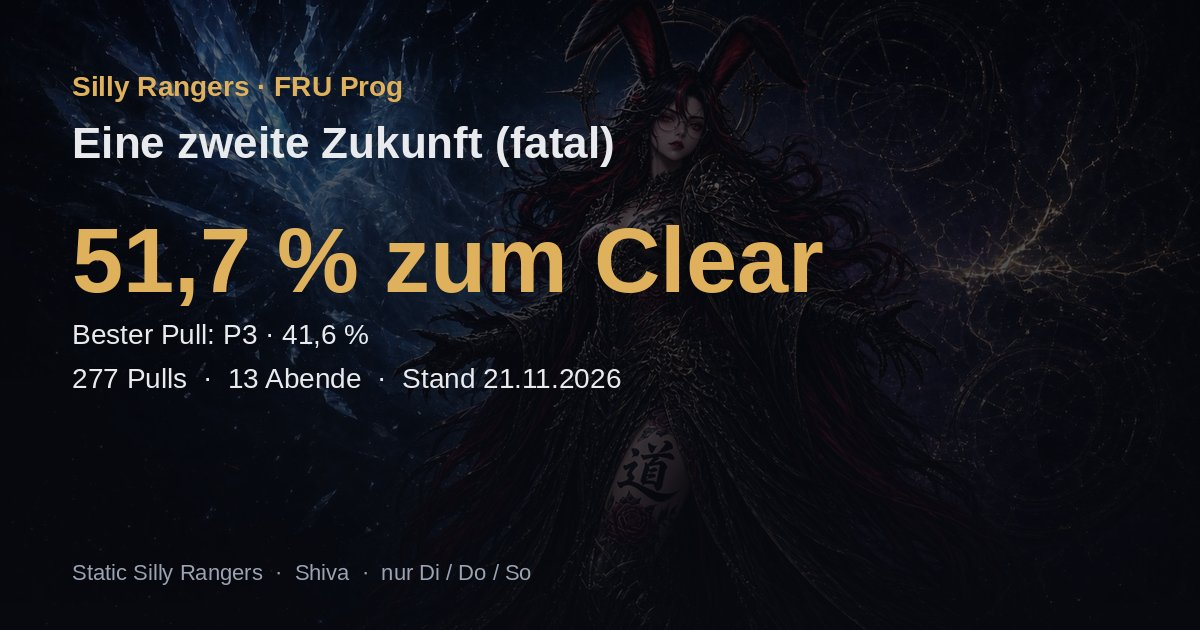
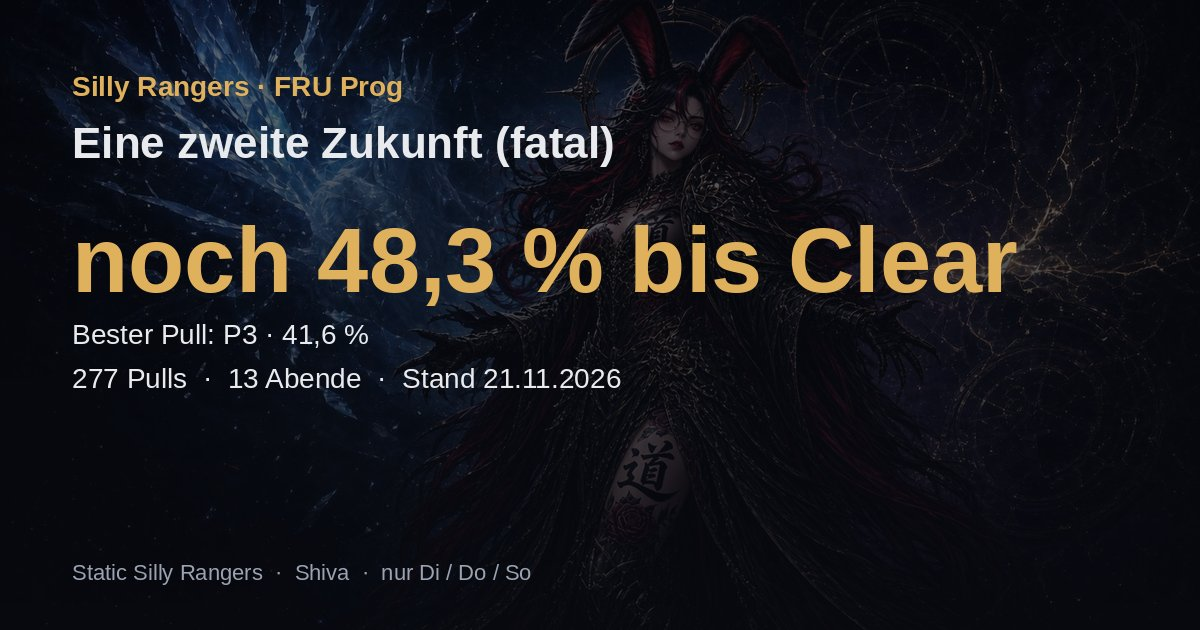
FRU-Seite Stand 21.11.2026 (Daten bis 19.11.2026, 277 Pulls, 13 Abende)

Changed region(s): [[0.0617, 0.3317, 0.8633, 0.4825]]

diff --git a/index.html b/index.html
@@ -3,7 +3,7 @@
 <head>
 <meta charset="utf-8">
 <meta name="viewport" content="width=device-width, initial-scale=1">
-<meta name="description" content="Bester Pull: 51,7 % zum Clear · 277 Pulls · 13 Abende">
+<meta name="description" content="Bester Pull: noch 48,3 % bis zum Clear · 277 Pulls · 13 Abende">
 <meta name="robots" content="index,follow">
 <title>Silly Rangers · FRU Prog</title>
 <link rel="canonical" href="https://kamishifuji.github.io/fru/">
@@ -13,16 +13,16 @@
 <meta property="og:type" content="website">
 <meta property="og:site_name" content="Silly Rangers">
 <meta property="og:title" content="Silly Rangers · FRU Prog">
-<meta property="og:description" content="Bester Pull: 51,7 % zum Clear · 277 Pulls · 13 Abende">
+<meta property="og:description" content="Bester Pull: noch 48,3 % bis zum Clear · 277 Pulls · 13 Abende">
 <meta property="og:url" content="https://kamishifuji.github.io/fru/">
 <meta property="og:image" content="https://kamishifuji.github.io/fru/assets/og.jpg">
 <meta property="og:image:width" content="1200">
 <meta property="og:image:height" content="630">
 <meta name="twitter:card" content="summary_large_image">
 <meta name="twitter:title" content="Silly Rangers · FRU Prog">
-<meta name="twitter:description" content="Bester Pull: 51,7 % zum Clear · 277 Pulls · 13 Abende">
+<meta name="twitter:description" content="Bester Pull: noch 48,3 % bis zum Clear · 277 Pulls · 13 Abende">
 <meta name="twitter:image" content="https://kamishifuji.github.io/fru/assets/og.jpg">
-<link rel="stylesheet" href="css/style.css?v=1ac3eb5cfa">
+<link rel="stylesheet" href="css/style.css?v=104f25d85b">
 </head>
 <body class="home">
 <a class="skip" href="#main">Zum Inhalt</a>
@@ -75,11 +75,11 @@
   <p class="note">Erster P2 nach 26 Pulls (04.10, Pull 8, 3:36, Boss 80,5 %). Erster P3 nach 162 Pulls (29.10, Pull 20, 8:04, Boss 84,1 %). Boss-HP ist der verbleibende Lebenspunkte-Anteil des Bosses der erreichten Phase beim Wipe (niedriger = weiter). Hinweis zur Uhrzeit: 25.10 (früh) Start 19:06 (früher als 20:00). Der 25.10. bleibt ein Static-Sonntag und ist zu einem Abend zusammengefasst.</p>
   <div class="actions"><a class='btn' href='pdf/FRU_Prog_Analyse.pdf'>Gesamt-PDF herunterladen</a></div>
 
-<div class='clear-head' id='clear-best'><div class='k'>Bester Pull bisher</div><div class='num'>51,7&nbsp;% zum Clear</div><div class='sub'>P3 · 41,6 % · 15.11.2026 · Pull 10 · 9:28</div><div class='clear-track' aria-hidden='true'><span class='fill' style='width:51.7%'></span><span class='tick' style='left:20%'></span><span class='tick' style='left:40%'></span><span class='tick' style='left:60%'></span><span class='tick' style='left:80%'></span></div><div class='clear-ticks'><span>0 · P1</span><span>P2</span><span>P3</span><span>P4</span><span>P5</span><span>Clear</span></div></div>
+<div class='clear-head' id='clear-best'><div class='k'>Bester Pull bisher</div><div class='num'>noch 48,3&nbsp;% bis zum Clear</div><div class='sub'>P3 · 41,6 % · 15.11.2026 · Pull 10 · 9:28</div><div class='clear-track' aria-hidden='true'><span class='fill fill-rest' style='width:48.3%;background-size:207.0% 100%'></span><span class='tick' style='left:20%'></span><span class='tick' style='left:40%'></span><span class='tick' style='left:60%'></span><span class='tick' style='left:80%'></span></div><div class='clear-ticks'><span>0 · Clear</span><span>P5</span><span>P4</span><span>P3</span><span>P2</span><span>100 · Start</span></div></div>
 
-  <h2 id="fortschritt">Fortschritt bis zum Clear (0–100 %)</h2>
-  <div class="card"><div class="chart-box"><canvas id="chartClear" aria-label="Fortschritt bis zum Clear über die Abende"></canvas></div>
-    <p class="fine">Pro Abend der beste Pull, umgerechnet auf den Weg zum Clear. Das ist ein <strong>vereinfachtes Modell</strong>: Jede der fünf Phasen zählt gleich 20&nbsp;%, unabhängig vom echten Zeitanteil im Fight. Rechnung: (Phase − 1) × 20&nbsp;% + (100 − Boss-HP&nbsp;%) / 100 × 20&nbsp;%. Beispiel: P3 bei 41&nbsp;% Boss-HP = 40 + 11,8 = 51,8&nbsp;%. 100&nbsp;% wäre ein Clear. Die waagerechten Linien markieren den Start von P2 / P3 / P4 / P5 (20 / 40 / 60 / 80&nbsp;%) und den Clear (100&nbsp;%).</p>
+  <h2 id="fortschritt">Weg bis zum Clear (100 % = Start, 0 % = Clear)</h2>
+  <div class="card"><div class="chart-box"><canvas id="chartClear" aria-label="Weg bis zum Clear über die Abende"></canvas></div>
+    <p class="fine">Pro Abend der beste Pull, umgerechnet auf den Rest bis zum Clear – wie eine HP-Leiste über den ganzen Fight: 100&nbsp;% ist der Start von FRU, 0&nbsp;% der Clear, je tiefer die Linie, desto weiter seid ihr. Das ist ein <strong>vereinfachtes Modell</strong>: Jede der fünf Phasen zählt gleich 20&nbsp;%, unabhängig vom echten Zeitanteil im Fight. Rechnung: Rest = 100 − [(Phase − 1) × 20&nbsp;% + (100 − Boss-HP&nbsp;%) / 100 × 20&nbsp;%]. Beispiel bester Pull: P3 bei 41,6&nbsp;% Boss-HP = 100 − (40 + 11,7) = 48,3&nbsp;% Rest. Die waagerechten Linien markieren den Start von P2 / P3 / P4 / P5 (80 / 60 / 40 / 20&nbsp;%) und den Clear (0&nbsp;%).</p>
   </div>
 
   <h2 id="anteil">Fortschritt über die Abende</h2>
@@ -117,7 +117,7 @@
     <p>Seit dem 20.11.2026 gleicht die Seite die Daten mit der FFLogs-API ab: volle Report-Links, Boss-HP mit Nachkommastelle, Spielerliste pro Pull und Positionsdaten für die <a href='fehler.html'>Fehler-Analyse</a>. Neue Reports kommen automatisch über die API dazu. 3 Pulls hatten in den ausgelesenen Daten keine Todesliste (03.11 Pull 13, 05.11 Pull 1, 05.11 Pull 12). Die API bestätigt: dort ist niemand gestorben, die Pulls endeten in der Zwischenphase ohne Massentod. Boss-HP korrigiert bzw. ergänzt: 15.11 Pull 3: 22 → 21.02 %, 19.11 Pull 2: ? → 100 %. Für 05.11 verlinkt die Seite das Log eines anderen Mitglieds derselben Session (gleiche Pulls und Dauern).</p>
     <p>Die Wipe-Kaskade ist die letzte Todeskette mit mindestens drei Toden (Abstand ≤ 6 s), aus der danach niemand noch einmal stirbt. Alles in und nach dieser Kette zählt als Wipe, nicht als Einzeltod. Tode mehr als 3 s vor dem ersten Massentod-Moment (≥ 2 Tode innerhalb 1 s) bleiben Einzeltode.</p>
     <p>Boss-HP kommt aus FFLogs und ist der verbleibende Anteil in der erreichten Phase, seit dem API-Abgleich mit Nachkommastelle. Es wird nichts ergänzt oder geschätzt.</p>
-    <p>Der Balken „Fortschritt bis zum Clear“ ist ein vereinfachtes Modell, keine echte Zeitmessung: Jede der fünf Phasen zählt gleich 20&nbsp;%. Formel: (Phase − 1) × 20&nbsp;% + (100 − Boss-HP) / 100 × 20&nbsp;%. 100&nbsp;% wäre ein Clear.</p>
+    <p>Der Balken „Weg bis zum Clear“ ist ein vereinfachtes Modell, keine echte Zeitmessung: Jede der fünf Phasen zählt gleich 20&nbsp;%. Formel: Rest = 100 − [(Phase − 1) × 20&nbsp;% + (100 − Boss-HP) / 100 × 20&nbsp;%]. 100&nbsp;% ist der Start von FRU, 0&nbsp;% wäre ein Clear.</p>
   </details>
 
 
@@ -165,8 +165,8 @@
   <div class="wrap legal">Inoffizielle Fan-Seite – FINAL FANTASY XIV © SQUARE ENIX</div>
 </footer>
 
-<script type="application/json" id="chart-data">{"labels": ["01.10", "04.10", "15.10", "18.10", "25.10", "29.10", "03.11", "05.11", "08.11", "12.11", "15.11", "17.11", "19.11"], "p2": [0.0, 14.7, 50.0, 50.0, 50.0, 50.0, 77.8, 60.0, 66.7, 64.7, 55.6, 69.2, 70.6], "p3": [0.0, 0.0, 0.0, 0.0, 0.0, 5.0, 16.7, 5.0, 25.0, 23.5, 27.8, 23.1, 41.2], "bestPhase": ["P1", "P2", "P2", "P2", "P2", "P3", "P3", "P3", "P3", "P3", "P3", "P3", "P3"], "bestBoss": [23.57, 79.46, 43.12, 37.35, 14.7, 84.08, 81.38, 81.82, 50.17, 76.2, 41.57, 42.18, 54.32], "bestPull": [16, 31, 14, 16, 34, 20, 18, 7, 7, 17, 10, 11, 6], "clearProg": [15.3, 24.1, 31.4, 32.5, 37.1, 43.2, 43.7, 43.6, 50.0, 44.8, 51.7, 51.6, 49.1], "phaseHp": {"P1": [23.57, 2.48, 5.86, 2.47, 0.93, 0.55, 4.97, 0.78, 28.08, 0.13, 4.64, 5.68, 12.46], "P2": [null, 79.46, 43.12, 37.35, 14.7, 30.23, 15.21, 15.66, 31.12, 20.23, 21.02, 19.83, 15.54], "P3": [null, null, null, null, null, 84.08, 81.38, 81.82, 50.17, 76.2, 41.57, 42.18, 54.32]}, "phaseHpColors": {"P1": "#e07a5f", "P2": "#5b9bd5", "P3": "#9b6bdb", "P4": "#e0b15c", "P5": "#3dbe8c"}, "phaseHpFills": {"P1": "rgba(224,122,95,.12)", "P2": "rgba(91,155,213,.12)", "P3": "rgba(155,107,219,.12)", "P4": "rgba(224,177,92,.12)", "P5": "rgba(61,190,140,.12)"}, "phase": {"labels": ["P1", "P2", "P3"], "values": [141, 109, 27], "colors": ["#e07a5f", "#5b9bd5", "#9b6bdb"]}, "causes": {"labels": [["P1 Schockpatrone/Sündenglut", "(Bow Shock / Sinblaze)"], ["P2 Diamantenstaub", "(Diamond Dust)"], ["P2 Überflutendes Licht – Fluch", "des Lichts", "(Light Rampant – Refulgent Fate)"], ["P1 Brandschlag/Todesmal", "(Burnt Strike / Fated Burn Mark)"], ["P2 Überflutendes Licht – Rest", "(Light Rampant –", "Towers/Puddles/Banish III)"], ["P1 Türme – Detonation", "(Towers – Unmitigated Explosion)"], ["P1 Stetes Pulvermal #1", "(Powder Mark Trail #1)"], ["P3 Fatale Relativität", "(Ultimate Relativity)"], ["P2 Spiegelland inkl. Verbannga", "(Mirror, Mirror incl. Banish", "III)"], ["P2 Absoluter Nullpunkt [DPS]", "(Absolute Zero)"], ["P1 Paradiestrennung /", "Erda-Detonation", "(Utopian Sky / Blasting Zone)"], ["P1 Stetes Pulvermal #2 + Blutung", "(Powder Mark Trail #2 +", "Bleeding)"]], "values": [40, 25, 22, 21, 20, 19, 17, 17, 15, 14, 13, 12]}, "deaths": {"labels": ["Kami (MT)", "Yashiro (OT)", "Freyja (H1)", "Sam (H2)", "Rinari (M1)", "Lunia (M2)", "Ayne (R1)", "Vincent (R2)"], "values": [2.38, 2.55, 1.62, 1.12, 1.58, 3.26, 1.21, 1.59], "colors": ["#4a90c3", "#7eb6e0", "#3dbe8c", "#7dd39a", "#e07a5f", "#e0b15c", "#c45c6c", "#d98b4a"]}}</script>
+<script type="application/json" id="chart-data">{"labels": ["01.10", "04.10", "15.10", "18.10", "25.10", "29.10", "03.11", "05.11", "08.11", "12.11", "15.11", "17.11", "19.11"], "p2": [0.0, 14.7, 50.0, 50.0, 50.0, 50.0, 77.8, 60.0, 66.7, 64.7, 55.6, 69.2, 70.6], "p3": [0.0, 0.0, 0.0, 0.0, 0.0, 5.0, 16.7, 5.0, 25.0, 23.5, 27.8, 23.1, 41.2], "bestPhase": ["P1", "P2", "P2", "P2", "P2", "P3", "P3", "P3", "P3", "P3", "P3", "P3", "P3"], "bestBoss": [23.57, 79.46, 43.12, 37.35, 14.7, 84.08, 81.38, 81.82, 50.17, 76.2, 41.57, 42.18, 54.32], "bestPull": [16, 31, 14, 16, 34, 20, 18, 7, 7, 17, 10, 11, 6], "clearProg": [15.3, 24.1, 31.4, 32.5, 37.1, 43.2, 43.7, 43.6, 50.0, 44.8, 51.7, 51.6, 49.1], "clearRest": [84.7, 75.9, 68.6, 67.5, 62.9, 56.8, 56.3, 56.4, 50.0, 55.2, 48.3, 48.4, 50.9], "phaseHp": {"P1": [23.57, 2.48, 5.86, 2.47, 0.93, 0.55, 4.97, 0.78, 28.08, 0.13, 4.64, 5.68, 12.46], "P2": [null, 79.46, 43.12, 37.35, 14.7, 30.23, 15.21, 15.66, 31.12, 20.23, 21.02, 19.83, 15.54], "P3": [null, null, null, null, null, 84.08, 81.38, 81.82, 50.17, 76.2, 41.57, 42.18, 54.32]}, "phaseHpColors": {"P1": "#e07a5f", "P2": "#5b9bd5", "P3": "#9b6bdb", "P4": "#e0b15c", "P5": "#3dbe8c"}, "phaseHpFills": {"P1": "rgba(224,122,95,.12)", "P2": "rgba(91,155,213,.12)", "P3": "rgba(155,107,219,.12)", "P4": "rgba(224,177,92,.12)", "P5": "rgba(61,190,140,.12)"}, "phase": {"labels": ["P1", "P2", "P3"], "values": [141, 109, 27], "colors": ["#e07a5f", "#5b9bd5", "#9b6bdb"]}, "causes": {"labels": [["P1 Schockpatrone/Sündenglut", "(Bow Shock / Sinblaze)"], ["P2 Diamantenstaub", "(Diamond Dust)"], ["P2 Überflutendes Licht – Fluch", "des Lichts", "(Light Rampant – Refulgent Fate)"], ["P1 Brandschlag/Todesmal", "(Burnt Strike / Fated Burn Mark)"], ["P2 Überflutendes Licht – Rest", "(Light Rampant –", "Towers/Puddles/Banish III)"], ["P1 Türme – Detonation", "(Towers – Unmitigated Explosion)"], ["P1 Stetes Pulvermal #1", "(Powder Mark Trail #1)"], ["P3 Fatale Relativität", "(Ultimate Relativity)"], ["P2 Spiegelland inkl. Verbannga", "(Mirror, Mirror incl. Banish", "III)"], ["P2 Absoluter Nullpunkt [DPS]", "(Absolute Zero)"], ["P1 Paradiestrennung /", "Erda-Detonation", "(Utopian Sky / Blasting Zone)"], ["P1 Stetes Pulvermal #2 + Blutung", "(Powder Mark Trail #2 +", "Bleeding)"]], "values": [40, 25, 22, 21, 20, 19, 17, 17, 15, 14, 13, 12]}, "deaths": {"labels": ["Kami (MT)", "Yashiro (OT)", "Freyja (H1)", "Sam (H2)", "Rinari (M1)", "Lunia (M2)", "Ayne (R1)", "Vincent (R2)"], "values": [2.38, 2.55, 1.62, 1.12, 1.58, 3.26, 1.21, 1.59], "colors": ["#4a90c3", "#7eb6e0", "#3dbe8c", "#7dd39a", "#e07a5f", "#e0b15c", "#c45c6c", "#d98b4a"]}}</script>
 <script src="https://cdn.jsdelivr.net/npm/chart.js@4.4.7/dist/chart.umd.min.js"></script>
-<script src="js/charts.js?v=b5da23b6c2"></script>
+<script src="js/charts.js?v=9f1912c536"></script>
 </body>
 </html>

diff --git a/fehler.html b/fehler.html
@@ -22,7 +22,7 @@
 <meta name="twitter:title" content="Silly Rangers · FRU Prog · Fehler-Analyse">
 <meta name="twitter:description" content="Fehler-Analyse der Static Silly Rangers: welche Mechaniken wie schiefgehen, mit Übungs-Tipps. 277 Pulls.">
 <meta name="twitter:image" content="https://kamishifuji.github.io/fru/assets/og.jpg">
-<link rel="stylesheet" href="css/style.css?v=1ac3eb5cfa">
+<link rel="stylesheet" href="css/style.css?v=104f25d85b">
 </head>
 <body>
 <a class="skip" href="#main">Zum Inhalt</a>
@@ -105,7 +105,7 @@
   <div class="p3block pp-2" id="p3-apoc">
     <div class="p3head"><span class="p3num">Prog-Point 2</span>
       <h3>Apokalypse (Apocalypse)</h3></div>
-    <article class='mcard fcard p3card' id='f-p3-apoc'><div class='p3flag'>Prog-Point 2</div><h3>P3 Apokalypse (Apocalypse)</h3><div class='fine fsub'>Inkantatische Verzögerung (Spell-in-Waiting Refrain) mit 3× Dunkel-Aquaga, Geistesdieb, Apokalypse-Lichter, Dunkle Eruption, Finsterer Tanz – danach Schockwellenpulsar und Ende der Erinnerungen</div><div class='mstats'><div><span class='num'>7</span><span class='lab'>Wipes hier</span></div><div><span class='num'>8</span><span class='lab'>Pulls erreicht</span></div><div><span class='num'>7</span><span class='lab'>Swaps laut Prio</span></div><div class='spark-wrap'><svg class="spark" viewBox="0 0 132 28" width="132" height="28" role="img" aria-label="Apokalypse erreicht pro Abend"><rect x="1.00" y="28.00" width="9.08" height="0.00" rx="0.6" fill="#5b9bd5" opacity="0.95"/><rect x="11.08" y="28.00" width="9.08" height="0.00" rx="0.6" fill="#5b9bd5" opacity="0.95"/><rect x="21.15" y="28.00" width="9.08" height="0.00" rx="0.6" fill="#5b9bd5" opacity="0.95"/><rect x="31.23" y="28.00" width="9.08" height="0.00" rx="0.6" fill="#5b9bd5" opacity="0.95"/><rect x="41.31" y="28.00" width="9.08" height="0.00" rx="0.6" fill="#5b9bd5" opacity="0.95"/><rect x="51.38" y="28.00" width="9.08" height="0.00" rx="0.6" fill="#5b9bd5" opacity="0.95"/><rect x="61.46" y="28.00" width="9.08" height="0.00" rx="0.6" fill="#5b9bd5" opacity="0.95"/><rect x="71.54" y="28.00" width="9.08" height="0.00" rx="0.6" fill="#5b9bd5" opacity="0.95"/><rect x="81.62" y="19.33" width="9.08" height="8.67" rx="0.6" fill="#5b9bd5" opacity="0.95"/><rect x="91.69" y="28.00" width="9.08" height="0.00" rx="0.6" fill="#5b9bd5" opacity="0.95"/><rect x="101.77" y="2.00" width="9.08" height="26.00" rx="0.6" fill="#e0b15c" opacity="0.95"/><rect x="111.85" y="10.67" width="9.08" height="17.33" rx="0.6" fill="#5b9bd5" opacity="0.95"/><rect x="121.92" y="10.67" width="9.08" height="17.33" rx="0.6" fill="#5b9bd5" opacity="0.95"/></svg><span class='lab'>erreicht pro Abend</span></div></div><div class='fine'>Gruppe beim 1. Dunkel-Aquaga wie nach LPDU-Swap-Prio erwartet: 52/59 (88 %)</div><h4>Auslöser des ersten Todes (7 Wipes)</h4><ul class='flist'><li>Dunkel-Aquaga-Stack (Dark Water III) verpasst oder doppelt <span class='fine'>· 4×</span></li><li>Geistesdieb-Überschneidung (Spirit Taker) <span class='fine'>· 2×</span></li><li>von Apokalypse-Licht (Apocalypse) getroffen <span class='fine'>· 1×</span></li></ul><h4>Was typischerweise schiefgeht (alle 8 Pulls)</h4><ul class='flist'><li>Dunkel-Aquaga-Stack (Dark Water III) verpasst oder doppelt <span class='fine'>· 7× in Pulls</span></li><li>von Apokalypse-Licht (Apocalypse) getroffen <span class='fine'>· 6× in Pulls</span></li><li>Dunkle Eruption (Dark Eruption) überschnitten <span class='fine'>· 6× in Pulls</span></li><li>Geistesdieb-Überschneidung (Spirit Taker) <span class='fine'>· 5× in Pulls</span></li><li>Finsterer Tanz (Darkest Dance) nicht vom Tank gebaitet <span class='fine'>· 3× in Pulls</span></li><li>falsche Stack-Gruppe nach dem Swap (Dunkel-Aquaga / Dark Water III) <span class='fine'>· 3× in Pulls</span></li></ul><p class='fine'>Finsterer Tanz (Darkest Dance) 4× erreicht: 1× sauber von einem Tank gebaitet (Kami), 2× lebte kein Tank mehr, 1× lebte ein Tank, hat aber nicht gebaitet.</p><p class='fine'>Schockwellenpulsar (Shockwave Pulsar) und Ende der Erinnerungen (Memory's End) wurden noch in keinem Pull erreicht.</p><p class='fwhat'>Supports starten NW (Marker 1), DPS SO (Marker 3). Haben zwei in einer Gruppe dasselbe Dunkel-Aquaga-Timing, wechselt der mit höherer Prio und bleibt dort. Nach dem 1. Stack kommt Geistesdieb (Sprung) – dafür spreaden; danach durch die Apokalypse-Lichter in den Safe-Sektor.</p><div class='ftip'><span class='ftag'>Übungs-Tipp</span> Swap-Prio MT > OT > H1 > H2 und M1 > M2 > R1 > R2; Geistesdieb-Spread MT A, OT D, M1 C, M2 B (nach einem Swap den Spot des Partners). Safe-Sektor 45° hinter dem Start-Licht.</div><ul class='guide-mini'><li><a href='https://lpdu.net/fru/p3/' target='_blank' rel='noopener noreferrer'>LPDU Phase 3</a></li><li><a href='https://raidplan.io/plan/OCGsXXXpUHCT5QiH' target='_blank' rel='noopener noreferrer'>Sextuple Apokalypse V1.4 (Sextuple Apocalypse)</a></li><li><a href='https://www.youtube.com/watch?v=l4avhkoNVRg' target='_blank' rel='noopener noreferrer'>Video Phase 3 – Spreekatze (@Spreemieze)</a></li></ul></article>
+    <article class='mcard fcard p3card' id='f-p3-apoc'><div class='p3flag'>Prog-Point 2</div><h3>P3 Apokalypse (Apocalypse)</h3><div class='fine fsub'>Inkantatische Verzögerung (Spell-in-Waiting Refrain) mit 3× Dunkel-Aquaga, Geistesdieb, Apokalypse-Lichter, Dunkle Eruption, Finsterer Tanz – danach Schockwellenpulsar und Ende der Erinnerungen</div><div class='mstats'><div><span class='num'>7</span><span class='lab'>Wipes hier</span></div><div><span class='num'>8</span><span class='lab'>Pulls erreicht</span></div><div><span class='num'>7</span><span class='lab'>Swaps laut Prio</span></div><div class='spark-wrap'><svg class="spark" viewBox="0 0 132 28" width="132" height="28" role="img" aria-label="Apokalypse erreicht pro Abend"><rect x="1.00" y="28.00" width="9.08" height="0.00" rx="0.6" fill="#5b9bd5" opacity="0.95"/><rect x="11.08" y="28.00" width="9.08" height="0.00" rx="0.6" fill="#5b9bd5" opacity="0.95"/><rect x="21.15" y="28.00" width="9.08" height="0.00" rx="0.6" fill="#5b9bd5" opacity="0.95"/><rect x="31.23" y="28.00" width="9.08" height="0.00" rx="0.6" fill="#5b9bd5" opacity="0.95"/><rect x="41.31" y="28.00" width="9.08" height="0.00" rx="0.6" fill="#5b9bd5" opacity="0.95"/><rect x="51.38" y="28.00" width="9.08" height="0.00" rx="0.6" fill="#5b9bd5" opacity="0.95"/><rect x="61.46" y="28.00" width="9.08" height="0.00" rx="0.6" fill="#5b9bd5" opacity="0.95"/><rect x="71.54" y="28.00" width="9.08" height="0.00" rx="0.6" fill="#5b9bd5" opacity="0.95"/><rect x="81.62" y="19.33" width="9.08" height="8.67" rx="0.6" fill="#5b9bd5" opacity="0.95"/><rect x="91.69" y="28.00" width="9.08" height="0.00" rx="0.6" fill="#5b9bd5" opacity="0.95"/><rect x="101.77" y="2.00" width="9.08" height="26.00" rx="0.6" fill="#e0b15c" opacity="0.95"/><rect x="111.85" y="10.67" width="9.08" height="17.33" rx="0.6" fill="#5b9bd5" opacity="0.95"/><rect x="121.92" y="10.67" width="9.08" height="17.33" rx="0.6" fill="#5b9bd5" opacity="0.95"/></svg><span class='lab'>erreicht pro Abend</span></div></div><div class='fine'>Gruppe beim 1. Dunkel-Aquaga wie nach LPDU-Swap-Prio erwartet: 52/59 (88 %)</div><h4>Auslöser des ersten Todes (7 Wipes)</h4><ul class='flist'><li>Dunkel-Aquaga-Stack (Dark Water III) verpasst oder doppelt <span class='fine'>· 4×</span></li><li>Geistesdieb-Überschneidung (Spirit Taker) <span class='fine'>· 2×</span></li><li>von Apokalypse-Licht (Apocalypse) getroffen <span class='fine'>· 1×</span></li></ul><h4>Was typischerweise schiefgeht (alle 8 Pulls)</h4><ul class='flist'><li>Dunkel-Aquaga-Stack (Dark Water III) verpasst oder doppelt <span class='fine'>· 7× in Pulls</span></li><li>Dunkle Eruption (Dark Eruption) überschnitten <span class='fine'>· 6× in Pulls</span></li><li>von Apokalypse-Licht (Apocalypse) getroffen <span class='fine'>· 6× in Pulls</span></li><li>Geistesdieb-Überschneidung (Spirit Taker) <span class='fine'>· 5× in Pulls</span></li><li>Finsterer Tanz (Darkest Dance) nicht vom Tank gebaitet <span class='fine'>· 3× in Pulls</span></li><li>falsche Stack-Gruppe nach dem Swap (Dunkel-Aquaga / Dark Water III) <span class='fine'>· 3× in Pulls</span></li></ul><p class='fine'>Finsterer Tanz (Darkest Dance) 4× erreicht: 1× sauber von einem Tank gebaitet (Kami), 2× lebte kein Tank mehr, 1× lebte ein Tank, hat aber nicht gebaitet.</p><p class='fine'>Schockwellenpulsar (Shockwave Pulsar) und Ende der Erinnerungen (Memory's End) wurden noch in keinem Pull erreicht.</p><p class='fwhat'>Supports starten NW (Marker 1), DPS SO (Marker 3). Haben zwei in einer Gruppe dasselbe Dunkel-Aquaga-Timing, wechselt der mit höherer Prio und bleibt dort. Nach dem 1. Stack kommt Geistesdieb (Sprung) – dafür spreaden; danach durch die Apokalypse-Lichter in den Safe-Sektor.</p><div class='ftip'><span class='ftag'>Übungs-Tipp</span> Swap-Prio MT > OT > H1 > H2 und M1 > M2 > R1 > R2; Geistesdieb-Spread MT A, OT D, M1 C, M2 B (nach einem Swap den Spot des Partners). Safe-Sektor 45° hinter dem Start-Licht.</div><ul class='guide-mini'><li><a href='https://lpdu.net/fru/p3/' target='_blank' rel='noopener noreferrer'>LPDU Phase 3</a></li><li><a href='https://raidplan.io/plan/OCGsXXXpUHCT5QiH' target='_blank' rel='noopener noreferrer'>Sextuple Apokalypse V1.4 (Sextuple Apocalypse)</a></li><li><a href='https://www.youtube.com/watch?v=l4avhkoNVRg' target='_blank' rel='noopener noreferrer'>Video Phase 3 – Spreekatze (@Spreemieze)</a></li></ul></article>
     <div class="card tight p3tbl"><h4>Apokalypse pro Position</h4>
       <div class="table-wrap"><table><tr><th>Spieler</th><th>Spot</th><th class='num'>Apok.-Pulls</th><th class='num'>Gruppe korrekt</th><th>Finsterer Tanz (Tanks)</th><th>häufigster Apok.-Fehler</th></tr><tr><td>Kami</td><td>MT</td><td class='num'>8</td><td class='num'>7/8 (88 %)</td><td class='fine'>4× erreicht · 2× am Leben · 1× sauber gebaitet</td><td>Geistesdieb-Überschneidung (Spirit Taker) <span class='fine'>· 2×</span></td></tr><tr><td>Yashiro</td><td>OT</td><td class='num'>5</td><td class='num'>5/5 (100 %)</td><td class='fine'>4× erreicht · 1× am Leben · 0× sauber gebaitet</td><td>Geistesdieb-Überschneidung (Spirit Taker) <span class='fine'>· 2×</span></td></tr><tr><td>Freyja</td><td>H1</td><td class='num'>8</td><td class='num'>7/7 (100 %)</td><td class='fine'>–</td><td>Dunkel-Aquaga-Stack (Dark Water III) verpasst oder doppelt <span class='fine'>· 3×</span></td></tr><tr><td>Sam</td><td>H2</td><td class='num'>8</td><td class='num'>7/7 (100 %)</td><td class='fine'>–</td><td>Dunkel-Aquaga-Stack (Dark Water III) verpasst oder doppelt <span class='fine'>· 2×</span></td></tr><tr><td>Rinari</td><td>M1</td><td class='num'>8</td><td class='num'>6/7 (86 %)</td><td class='fine'>–</td><td>von Apokalypse-Licht (Apocalypse) getroffen <span class='fine'>· 1×</span></td></tr><tr><td>Lunia</td><td>M2</td><td class='num'>8</td><td class='num'>6/8 (75 %)</td><td class='fine'>–</td><td>Dunkel-Aquaga-Stack (Dark Water III) verpasst oder doppelt <span class='fine'>· 3×</span></td></tr><tr><td>Ayne</td><td>R1</td><td class='num'>8</td><td class='num'>5/7 (71 %)</td><td class='fine'>–</td><td>von Apokalypse-Licht (Apocalypse) getroffen <span class='fine'>· 2×</span></td></tr><tr><td>Vincent</td><td>R2</td><td class='num'>8</td><td class='num'>7/7 (100 %)</td><td class='fine'>–</td><td>Dunkle Eruption (Dark Eruption) überschnitten <span class='fine'>· 3×</span></td></tr></table></div>
       <p class="fine">Apok.-Pulls = Pulls, die die Apokalypse erreicht haben (8). „Gruppe korrekt“ = Stack-Gruppe beim

diff --git a/js/charts.js b/js/charts.js
@@ -8,13 +8,13 @@
   const grid = { color: '#1f2430' };
 
   const clear = document.getElementById('chartClear');
-  if (clear && data.clearProg) {
-    let bestIdx = -1, bestVal = -1;
-    data.clearProg.forEach(function (v, i) { if (v !== null && v !== undefined && v > bestVal) { bestVal = v; bestIdx = i; } });
+  if (clear && data.clearRest) {
+    let bestIdx = -1, bestVal = 101;
+    data.clearRest.forEach(function (v, i) { if (v !== null && v !== undefined && v < bestVal) { bestVal = v; bestIdx = i; } });
     const BEST_COL = '#3dd6c6';
-    const ptCol = data.clearProg.map(function (_, i) { return i === bestIdx ? BEST_COL : '#e0b15c'; });
-    const ptRad = data.clearProg.map(function (_, i) { return i === bestIdx ? 9 : 5; });
-    const ptBorder = data.clearProg.map(function (_, i) { return i === bestIdx ? '#ffffff' : '#090b10'; });
+    const ptCol = data.clearRest.map(function (_, i) { return i === bestIdx ? BEST_COL : '#e0b15c'; });
+    const ptRad = data.clearRest.map(function (_, i) { return i === bestIdx ? 9 : 5; });
+    const ptBorder = data.clearRest.map(function (_, i) { return i === bestIdx ? '#ffffff' : '#090b10'; });
     const bestMark = {
       id: 'bestMark',
       afterDatasetsDraw: function (chart) {
@@ -23,13 +23,13 @@
         if (!pt) return;
         const ctx = chart.ctx;
         const valTxt = String(bestVal).replace('.', ',') + ' %';
-        const txt = (chart.width < 520) ? ('Rekord ' + valTxt) : ('Rekord: ' + valTxt + ' (' + data.labels[bestIdx] + ')');
+        const txt = (chart.width < 520) ? ('Rekord: noch ' + valTxt) : ('Rekord: noch ' + valTxt + ' (' + data.labels[bestIdx] + ')');
         ctx.save();
         ctx.font = '700 12px "Segoe UI", system-ui, sans-serif';
         const w = ctx.measureText(txt).width + 14;
         let x = pt.x - w / 2;
         x = Math.max(chart.chartArea.left, Math.min(x, chart.chartArea.right - w));
-        const y = pt.y - 34;
+        const y = (pt.y + 34 > chart.chartArea.bottom - 4) ? pt.y - 34 : pt.y + 12;
         ctx.fillStyle = 'rgba(9,11,16,.85)';
         ctx.strokeStyle = BEST_COL;
         ctx.lineWidth = 1.2;
@@ -50,11 +50,12 @@
         if (!y || !area) return;
         const ctx = chart.ctx;
         const marks = [
-          [20, 'P2'],
-          [40, 'P3'],
-          [60, 'P4'],
-          [80, 'P5'],
-          [100, 'Clear']
+          [100, 'Start / P1'],
+          [80, 'P2'],
+          [60, 'P3'],
+          [40, 'P4'],
+          [20, 'P5'],
+          [0, 'Clear']
         ];
         ctx.save();
         marks.forEach(function (m) {
@@ -72,8 +73,9 @@
           ctx.fillStyle = lab === 'Clear' ? '#e0b15c' : '#9aa3b2';
           ctx.font = '600 11px "Segoe UI", system-ui, sans-serif';
           ctx.textAlign = 'right';
-          ctx.textBaseline = lab === 'Clear' ? 'top' : 'bottom';
-          ctx.fillText(lab, area.right - 3, lab === 'Clear' ? py + 3 : py - 3);
+          const below = (lab === 'Start / P1');
+          ctx.textBaseline = below ? 'top' : 'bottom';
+          ctx.fillText(lab, area.right - 3, below ? py + 3 : py - 3);
         });
         ctx.restore();
       }
@@ -83,12 +85,12 @@
       data: {
         labels: data.labels,
         datasets: [{
-          label: 'Bester Pull – Fortschritt zum Clear',
-          data: data.clearProg,
+          label: 'Bester Pull – noch bis zum Clear',
+          data: data.clearRest,
           borderColor: '#e0b15c',
           backgroundColor: 'rgba(224,177,92,.14)',
           tension: .25,
-          fill: true,
+          fill: 'origin',
           spanGaps: true,
           pointRadius: ptRad,
           pointHoverRadius: ptRad.map(function (r) { return r + 2; }),
@@ -113,13 +115,13 @@
                 const hp = data.bestBoss[i];
                 const pu = data.bestPull[i];
                 const hpTxt = (hp === null || hp === undefined) ? 'Boss-HP unbekannt' : (String(hp).replace('.', ',') + ' %');
-                return 'Fortschritt: ' + vTxt + (ph ? ' · ' + ph + ' · ' + hpTxt + ' (Pull ' + pu + ')' : '');
+                return 'Noch bis zum Clear: ' + vTxt + (ph ? ' · ' + ph + ' · ' + hpTxt + ' (Pull ' + pu + ')' : '');
               }
             }
           }
         },
         scales: {
-          y: { min: 0, max: 100, ticks: { callback: v => v + ' %' }, grid: grid, title: { display: true, text: 'Fortschritt zum Clear (höher = näher)' } },
+          y: { min: 0, max: 100, ticks: { callback: v => v + ' %' }, grid: grid, title: { display: true, text: 'Noch bis zum Clear (tiefer = näher)' } },
           x: { grid: { display: false } }
         }
       },

diff --git a/abende/2026-10-01.html b/abende/2026-10-01.html
@@ -22,7 +22,7 @@
 <meta name="twitter:title" content="Silly Rangers · FRU · 01.10.2026">
 <meta name="twitter:description" content="01.10.2026: 18 Pulls, bester Pull P1 · 23,6 %. Silly Rangers · Eine zweite Zukunft (fatal).">
 <meta name="twitter:image" content="https://kamishifuji.github.io/fru/assets/og.jpg">
-<link rel="stylesheet" href="../css/style.css?v=1ac3eb5cfa">
+<link rel="stylesheet" href="../css/style.css?v=104f25d85b">
 </head>
 <body>
 <a class="skip" href="#main">Zum Inhalt</a>

diff --git a/abende/2026-10-04.html b/abende/2026-10-04.html
@@ -22,7 +22,7 @@
 <meta name="twitter:title" content="Silly Rangers · FRU · 04.10.2026">
 <meta name="twitter:description" content="04.10.2026: 34 Pulls, bester Pull P2 · 79,5 %. Silly Rangers · Eine zweite Zukunft (fatal).">
 <meta name="twitter:image" content="https://kamishifuji.github.io/fru/assets/og.jpg">
-<link rel="stylesheet" href="../css/style.css?v=1ac3eb5cfa">
+<link rel="stylesheet" href="../css/style.css?v=104f25d85b">
 </head>
 <body>
 <a class="skip" href="#main">Zum Inhalt</a>

diff --git a/abende/2026-10-15.html b/abende/2026-10-15.html
@@ -22,7 +22,7 @@
 <meta name="twitter:title" content="Silly Rangers · FRU · 15.10.2026">
 <meta name="twitter:description" content="15.10.2026: 24 Pulls, bester Pull P2 · 43,1 %. Silly Rangers · Eine zweite Zukunft (fatal).">
 <meta name="twitter:image" content="https://kamishifuji.github.io/fru/assets/og.jpg">
-<link rel="stylesheet" href="../css/style.css?v=1ac3eb5cfa">
+<link rel="stylesheet" href="../css/style.css?v=104f25d85b">
 </head>
 <body>
 <a class="skip" href="#main">Zum Inhalt</a>

diff --git a/abende/2026-10-18.html b/abende/2026-10-18.html
@@ -22,7 +22,7 @@
 <meta name="twitter:title" content="Silly Rangers · FRU · 18.10.2026">
 <meta name="twitter:description" content="18.10.2026: 30 Pulls, bester Pull P2 · 37,4 %. Silly Rangers · Eine zweite Zukunft (fatal).">
 <meta name="twitter:image" content="https://kamishifuji.github.io/fru/assets/og.jpg">
-<link rel="stylesheet" href="../css/style.css?v=1ac3eb5cfa">
+<link rel="stylesheet" href="../css/style.css?v=104f25d85b">
 </head>
 <body>
 <a class="skip" href="#main">Zum Inhalt</a>

diff --git a/abende/2026-10-25.html b/abende/2026-10-25.html
@@ -22,7 +22,7 @@
 <meta name="twitter:title" content="Silly Rangers · FRU · 25.10.2026">
 <meta name="twitter:description" content="25.10.2026: 36 Pulls, bester Pull P2 · 14,7 %. Silly Rangers · Eine zweite Zukunft (fatal).">
 <meta name="twitter:image" content="https://kamishifuji.github.io/fru/assets/og.jpg">
-<link rel="stylesheet" href="../css/style.css?v=1ac3eb5cfa">
+<link rel="stylesheet" href="../css/style.css?v=104f25d85b">
 </head>
 <body>
 <a class="skip" href="#main">Zum Inhalt</a>

diff --git a/abende/2026-10-29.html b/abende/2026-10-29.html
@@ -22,7 +22,7 @@
 <meta name="twitter:title" content="Silly Rangers · FRU · 29.10.2026">
 <meta name="twitter:description" content="29.10.2026: 20 Pulls, bester Pull P3 · 84,1 %. Silly Rangers · Eine zweite Zukunft (fatal).">
 <meta name="twitter:image" content="https://kamishifuji.github.io/fru/assets/og.jpg">
-<link rel="stylesheet" href="../css/style.css?v=1ac3eb5cfa">
+<link rel="stylesheet" href="../css/style.css?v=104f25d85b">
 </head>
 <body>
 <a class="skip" href="#main">Zum Inhalt</a>

diff --git a/abende/2026-11-03.html b/abende/2026-11-03.html
@@ -22,7 +22,7 @@
 <meta name="twitter:title" content="Silly Rangers · FRU · 03.11.2026">
 <meta name="twitter:description" content="03.11.2026: 18 Pulls, bester Pull P3 · 81,4 %. Silly Rangers · Eine zweite Zukunft (fatal).">
 <meta name="twitter:image" content="https://kamishifuji.github.io/fru/assets/og.jpg">
-<link rel="stylesheet" href="../css/style.css?v=1ac3eb5cfa">
+<link rel="stylesheet" href="../css/style.css?v=104f25d85b">
 </head>
 <body>
 <a class="skip" href="#main">Zum Inhalt</a>

diff --git a/abende/2026-11-05.html b/abende/2026-11-05.html
@@ -22,7 +22,7 @@
 <meta name="twitter:title" content="Silly Rangers · FRU · 05.11.2026">
 <meta name="twitter:description" content="05.11.2026: 20 Pulls, bester Pull P3 · 81,8 %. Silly Rangers · Eine zweite Zukunft (fatal).">
 <meta name="twitter:image" content="https://kamishifuji.github.io/fru/assets/og.jpg">
-<link rel="stylesheet" href="../css/style.css?v=1ac3eb5cfa">
+<link rel="stylesheet" href="../css/style.css?v=104f25d85b">
 </head>
 <body>
 <a class="skip" href="#main">Zum Inhalt</a>

diff --git a/abende/2026-11-08.html b/abende/2026-11-08.html
@@ -22,7 +22,7 @@
 <meta name="twitter:title" content="Silly Rangers · FRU · 08.11.2026">
 <meta name="twitter:description" content="08.11.2026: 12 Pulls, bester Pull P3 · 50,2 %. Silly Rangers · Eine zweite Zukunft (fatal).">
 <meta name="twitter:image" content="https://kamishifuji.github.io/fru/assets/og.jpg">
-<link rel="stylesheet" href="../css/style.css?v=1ac3eb5cfa">
+<link rel="stylesheet" href="../css/style.css?v=104f25d85b">
 </head>
 <body>
 <a class="skip" href="#main">Zum Inhalt</a>
